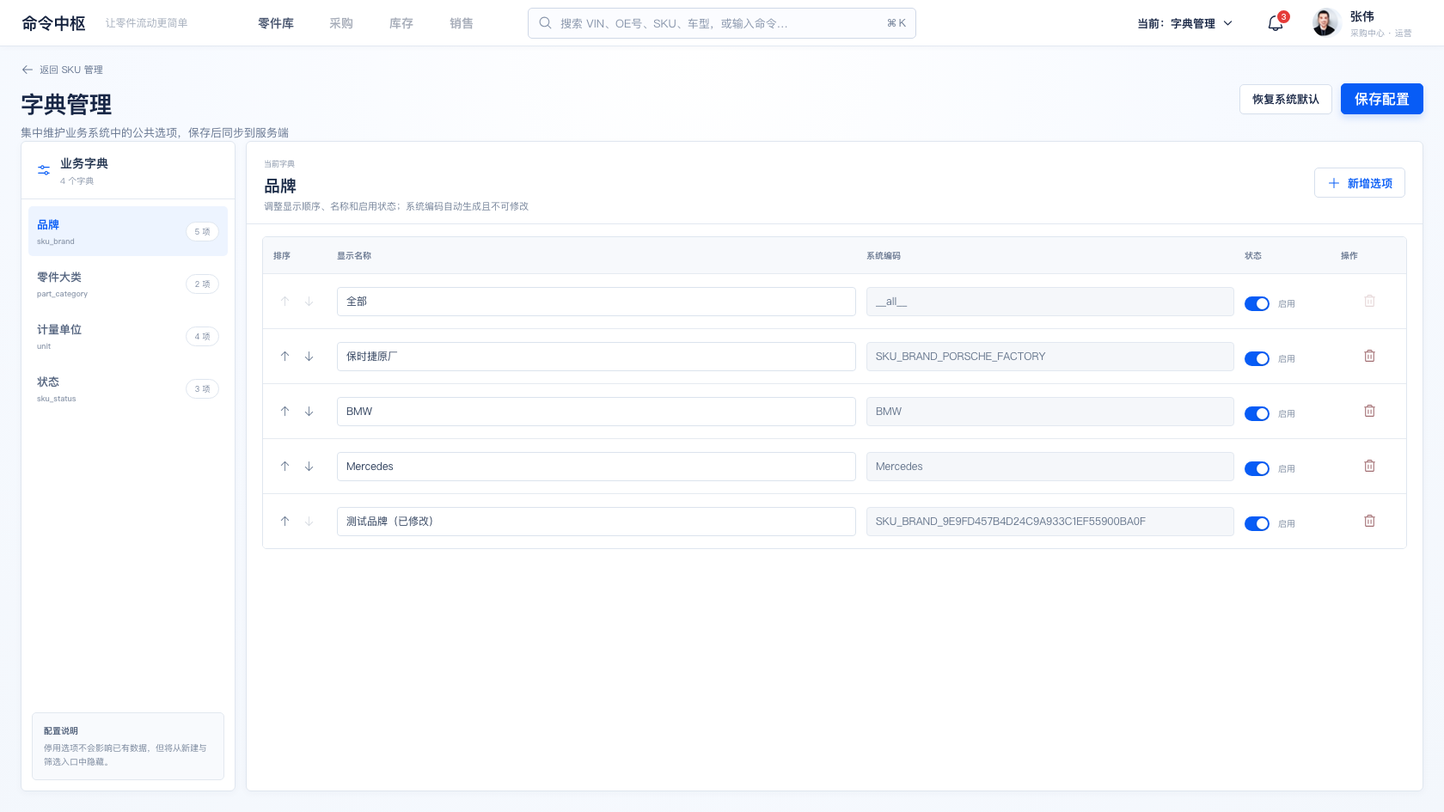
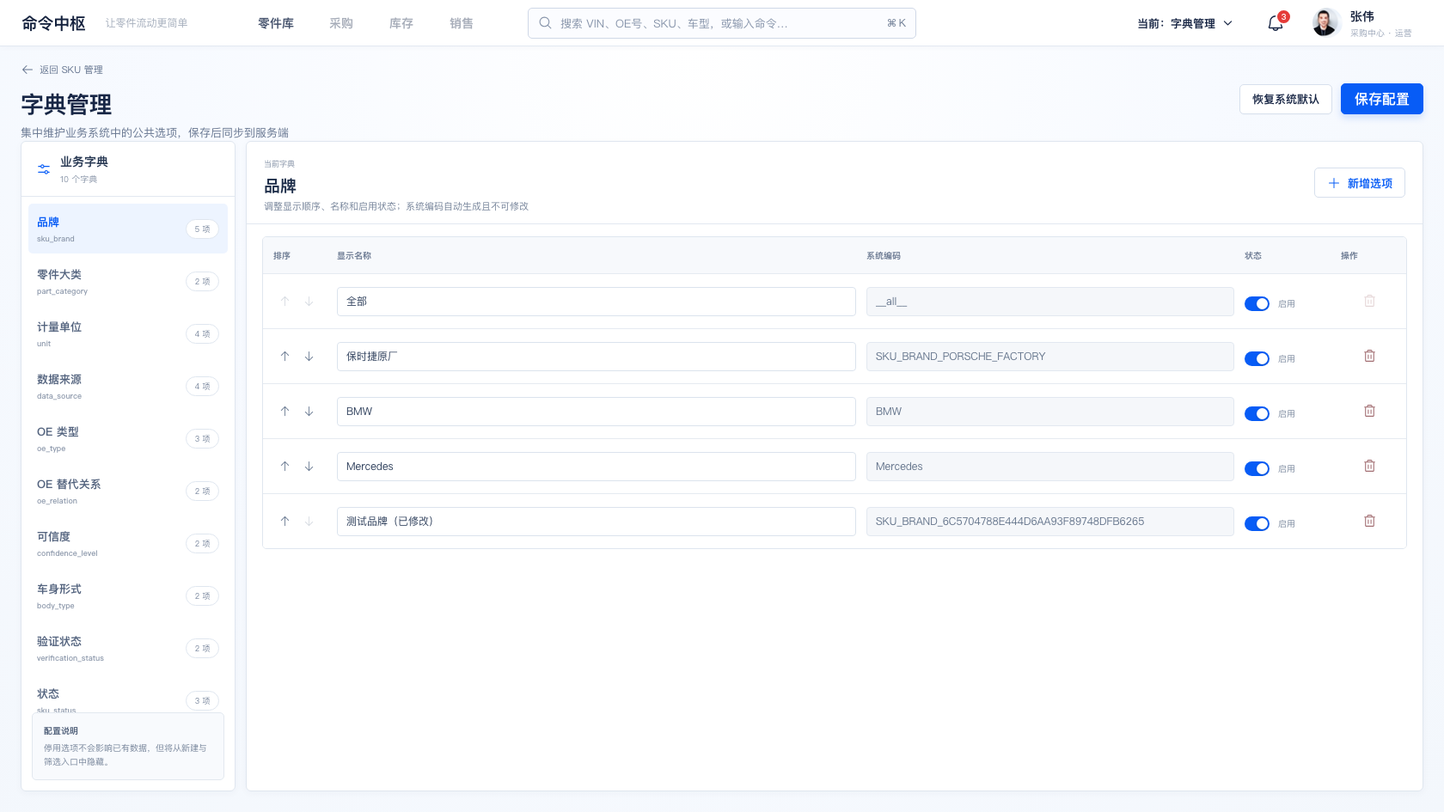
feat: use dictionaries for SKU relations and fitment

diff --git a/apps/web/src/components/SkuEditor.jsx b/apps/web/src/components/SkuEditor.jsx
@@ -37,10 +37,6 @@ function TextField({ label, value, onChange, required, readOnly = false, valid =
   return <EditorField label={label} required={required}><div className={className}><input aria-invalid={Boolean(error)} aria-describedby={error ? `${label}-input-error` : undefined} autoCapitalize={codeInput ? 'off' : undefined} lang={codeInput ? 'en' : undefined} spellCheck={codeInput ? false : undefined} value={value} onBlur={onBlur} onChange={(event) => onChange?.(event.target.value)} readOnly={readOnly} />{valid ? <CheckCircle size={16} weight="fill" /> : null}</div>{error ? <small className="editor-field-error" id={`${label}-input-error`} role="alert">{error}</small> : null}</EditorField>
 }
 
-function SelectField({ label, value, onChange, options, required, status = false }) {
-  return <EditorField label={label} required={required}><div className={status ? 'editor-native-select has-status' : 'editor-native-select'}>{status ? <i /> : null}<select value={value} onChange={(event) => onChange(event.target.value)}>{required ? <option disabled value="">请选择{label}</option> : null}{options.map((option) => <option key={option} value={option}>{option}</option>)}</select></div></EditorField>
-}
-
 function SectionHeading({ title, description, action }) {
   return <header className="editor-section-heading"><div><h2>{title}</h2>{description ? <p>{description}</p> : null}</div>{action}</header>
 }
@@ -49,21 +45,41 @@ function EditableCell({ value, onChange, label }) {
   return <input aria-label={label} className="table-cell-input" value={value} onChange={(event) => onChange(event.target.value)} />
 }
 
-function OeRelations({ rows, setRows }) {
+function DictionaryCell({ dictionaryCode, dictionaries, value, onChange, label, disabled = false }) {
+  const items = dictionaries[dictionaryCode]?.items?.filter((item) => item.enabled !== false && item.value !== '__all__') ?? []
+  const hasCurrentValue = !value || items.some((item) => item.value === value)
+  return <select aria-label={label} className="table-cell-select" disabled={disabled} value={value} onChange={(event) => onChange(event.target.value)}>
+    <option value="">请选择</option>
+    {!hasCurrentValue ? <option value={value}>{value}</option> : null}
+    {items.map((item) => <option key={item.value} value={item.value}>{item.label}</option>)}
+  </select>
+}
+
+function OeRelations({ rows, setRows, dictionaries, dictionariesLoading, primaryOe, skuBrand, dataSource }) {
   const update = (index, key, value) => setRows((current) => current.map((row, rowIndex) => rowIndex === index ? { ...row, [key]: value } : row))
-  const addOe = () => setRows((current) => [...current, { type: current.length ? '替代号' : '主 OE', oeNumber: '', brand: '', relation: '', source: '人工录入', confidence: '待核验' }])
+  const updateType = (index, value) => setRows((current) => current.map((row, rowIndex) => rowIndex === index ? { ...row, type: value, relation: value === '主 OE' ? '' : row.relation } : row))
+  const hasIncompleteRow = rows.some((row) => !row.oeNumber?.trim())
+  const addOe = () => setRows((current) => [...current, {
+    type: current.length ? '替代号' : '主 OE',
+    oeNumber: current.length ? '' : primaryOe,
+    brand: skuBrand,
+    relation: '',
+    source: dataSource,
+    confidence: '待核验',
+  }])
   return <section className="editor-section" id="oe-relations">
-    <SectionHeading title="OE 与替代关系" description="维护该零件的 OE 号及替代关系，保存后同步写入数据库" action={<div className="section-actions"><button onClick={addOe} type="button"><Plus size={16} />添加 OE 号</button></div>} />
-    {rows.length ? <div className="editor-table-wrap"><table className="editor-table oe-editor-table"><thead><tr><th>类型</th><th>OE / 替代号</th><th>品牌</th><th>关系</th><th>来源</th><th>可信度</th><th>操作</th></tr></thead><tbody>{rows.map((row, index) => <tr key={`${row.id || 'new-oe'}-${index}`}><td><EditableCell label={`OE 类型 ${index + 1}`} value={row.type} onChange={(value) => update(index, 'type', value)} /></td><td><EditableCell label={`OE 编号 ${index + 1}`} value={row.oeNumber} onChange={(value) => update(index, 'oeNumber', value)} /></td><td><EditableCell label={`OE 品牌 ${index + 1}`} value={row.brand} onChange={(value) => update(index, 'brand', value)} /></td><td><EditableCell label={`OE 关系 ${index + 1}`} value={row.relation} onChange={(value) => update(index, 'relation', value)} /></td><td><EditableCell label={`OE 来源 ${index + 1}`} value={row.source} onChange={(value) => update(index, 'source', value)} /></td><td><EditableCell label={`OE 可信度 ${index + 1}`} value={row.confidence} onChange={(value) => update(index, 'confidence', value)} /></td><td><button className="remove-row-button" onClick={() => setRows((current) => current.filter((_, rowIndex) => rowIndex !== index))} type="button">删除</button></td></tr>)}</tbody></table></div> : <div className="editor-inline-empty">尚未添加 OE 或替代关系</div>}
+    <SectionHeading title="OE 与替代关系" description="维护该零件的 OE 号及替代关系，保存后同步写入数据库" action={<div className="section-actions"><button disabled={hasIncompleteRow} onClick={addOe} title={hasIncompleteRow ? '请先填写当前空白行的 OE 编号' : undefined} type="button"><Plus size={16} />添加 OE 号</button></div>} />
+    {rows.length ? <div className="editor-table-wrap"><table className="editor-table oe-editor-table"><thead><tr><th>类型</th><th>OE / 替代号</th><th>品牌</th><th>关系</th><th>来源</th><th>可信度</th><th>操作</th></tr></thead><tbody>{rows.map((row, index) => <tr key={`${row.id || 'new-oe'}-${index}`}><td><DictionaryCell dictionaryCode="oe_type" dictionaries={dictionaries} disabled={dictionariesLoading} label={`OE 类型 ${index + 1}`} value={row.type} onChange={(value) => updateType(index, value)} /></td><td><EditableCell label={`OE 编号 ${index + 1}`} value={row.oeNumber} onChange={(value) => update(index, 'oeNumber', value)} /></td><td><DictionaryCell dictionaryCode="sku_brand" dictionaries={dictionaries} disabled={dictionariesLoading} label={`OE 品牌 ${index + 1}`} value={row.brand} onChange={(value) => update(index, 'brand', value)} /></td><td><DictionaryCell dictionaryCode="oe_relation" dictionaries={dictionaries} disabled={dictionariesLoading || row.type === '主 OE'} label={`OE 关系 ${index + 1}`} value={row.relation} onChange={(value) => update(index, 'relation', value)} /></td><td><DictionaryCell dictionaryCode="data_source" dictionaries={dictionaries} disabled={dictionariesLoading} label={`OE 来源 ${index + 1}`} value={row.source} onChange={(value) => update(index, 'source', value)} /></td><td><DictionaryCell dictionaryCode="confidence_level" dictionaries={dictionaries} disabled={dictionariesLoading} label={`OE 可信度 ${index + 1}`} value={row.confidence} onChange={(value) => update(index, 'confidence', value)} /></td><td><button aria-label={`删除第 ${index + 1} 条 OE 记录`} className="remove-row-button" onClick={() => setRows((current) => current.filter((_, rowIndex) => rowIndex !== index))} type="button">删除</button></td></tr>)}</tbody></table></div> : <div className="editor-inline-empty">尚未添加 OE 或替代关系</div>}
   </section>
 }
 
-function FitmentTable({ rows, setRows }) {
+function FitmentTable({ rows, setRows, dictionaries, dictionariesLoading, dataSource }) {
   const update = (index, key, value) => setRows((current) => current.map((row, rowIndex) => rowIndex === index ? { ...row, [key]: value } : row))
-  const addFitment = () => setRows((current) => [...current, { vehicle: '', years: '', engine: '', body: '', condition: '', source: '人工录入', verificationStatus: '待验证' }])
+  const hasIncompleteRow = rows.some((row) => !row.vehicle?.trim())
+  const addFitment = () => setRows((current) => [...current, { vehicle: '', years: '', engine: '', body: '', condition: '', source: dataSource, verificationStatus: '待验证' }])
   return <section className="editor-section" id="fitments">
-    <SectionHeading title="适配车型" description="指定适用的车型、年款、发动机和限制条件" action={<div className="section-actions"><button onClick={addFitment} type="button"><Plus size={16} />添加适配车型</button></div>} />
-    {rows.length ? <div className="editor-table-wrap"><table className="editor-table fitment-editor-table"><thead><tr><th>#</th><th>品牌 / 车型</th><th>年份</th><th>发动机</th><th>车身形式</th><th>适配条件</th><th>来源</th><th>验证状态</th><th>操作</th></tr></thead><tbody>{rows.map((row, index) => <tr key={`${row.id || 'new-fitment'}-${index}`}><td>{index + 1}</td><td><EditableCell label={`适配车型 ${index + 1}`} value={row.vehicle} onChange={(value) => update(index, 'vehicle', value)} /></td><td><EditableCell label={`适配年份 ${index + 1}`} value={row.years} onChange={(value) => update(index, 'years', value)} /></td><td><EditableCell label={`适配发动机 ${index + 1}`} value={row.engine} onChange={(value) => update(index, 'engine', value)} /></td><td><EditableCell label={`车身形式 ${index + 1}`} value={row.body} onChange={(value) => update(index, 'body', value)} /></td><td><EditableCell label={`适配条件 ${index + 1}`} value={row.condition} onChange={(value) => update(index, 'condition', value)} /></td><td><EditableCell label={`适配来源 ${index + 1}`} value={row.source} onChange={(value) => update(index, 'source', value)} /></td><td><EditableCell label={`验证状态 ${index + 1}`} value={row.verificationStatus} onChange={(value) => update(index, 'verificationStatus', value)} /></td><td><button className="remove-row-button" onClick={() => setRows((current) => current.filter((_, rowIndex) => rowIndex !== index))} type="button">删除</button></td></tr>)}</tbody></table></div> : <div className="editor-inline-empty">尚未添加适配车型</div>}
+    <SectionHeading title="适配车型" description="指定适用的车型、年款、发动机和限制条件" action={<div className="section-actions"><button disabled={hasIncompleteRow} onClick={addFitment} title={hasIncompleteRow ? '请先填写当前空白行的品牌 / 车型' : undefined} type="button"><Plus size={16} />添加适配车型</button></div>} />
+    {rows.length ? <div className="editor-table-wrap"><table className="editor-table fitment-editor-table"><thead><tr><th>#</th><th>品牌 / 车型</th><th>年份</th><th>发动机</th><th>车身形式</th><th>适配条件</th><th>来源</th><th>验证状态</th><th>操作</th></tr></thead><tbody>{rows.map((row, index) => <tr key={`${row.id || 'new-fitment'}-${index}`}><td>{index + 1}</td><td><EditableCell label={`适配车型 ${index + 1}`} value={row.vehicle} onChange={(value) => update(index, 'vehicle', value)} /></td><td><EditableCell label={`适配年份 ${index + 1}`} value={row.years} onChange={(value) => update(index, 'years', value)} /></td><td><EditableCell label={`适配发动机 ${index + 1}`} value={row.engine} onChange={(value) => update(index, 'engine', value)} /></td><td><DictionaryCell dictionaryCode="body_type" dictionaries={dictionaries} disabled={dictionariesLoading} label={`车身形式 ${index + 1}`} value={row.body} onChange={(value) => update(index, 'body', value)} /></td><td><EditableCell label={`适配条件 ${index + 1}`} value={row.condition} onChange={(value) => update(index, 'condition', value)} /></td><td><DictionaryCell dictionaryCode="data_source" dictionaries={dictionaries} disabled={dictionariesLoading} label={`适配来源 ${index + 1}`} value={row.source} onChange={(value) => update(index, 'source', value)} /></td><td><DictionaryCell dictionaryCode="verification_status" dictionaries={dictionaries} disabled={dictionariesLoading} label={`验证状态 ${index + 1}`} value={row.verificationStatus} onChange={(value) => update(index, 'verificationStatus', value)} /></td><td><button aria-label={`删除第 ${index + 1} 条适配记录`} className="remove-row-button" onClick={() => setRows((current) => current.filter((_, rowIndex) => rowIndex !== index))} type="button">删除</button></td></tr>)}</tbody></table></div> : <div className="editor-inline-empty">尚未添加适配车型</div>}
   </section>
 }
 
@@ -186,10 +202,10 @@ export function SkuEditor({ dictionaries, dictionariesLoading, mode = 'edit', sk
       <EditorField label="计量单位" required><DictionarySelect allowAll={false} showLabel={false} className="form-dictionary" dictionaryCode="unit" dictionaries={dictionaries} fallbackLabel="计量单位" value={form.unit} onChange={(value) => setValue('unit', value)} disabled={dictionariesLoading} /></EditorField>
       <TextField label="生命周期状态" value={form.lifecycleStatus} readOnly required />
       <TextField label="条形码 / GTIN" value={form.barcode} onChange={(value) => setValue('barcode', value)} />
-      <SelectField label="数据来源" value={form.dataSource} onChange={(value) => setValue('dataSource', value)} options={['人工录入', 'EPC 导入', '供应商资料', '历史系统']} required />
+      <EditorField label="数据来源" required><DictionarySelect allowAll={false} showLabel={false} className="form-dictionary" dictionaryCode="data_source" dictionaries={dictionaries} fallbackLabel="数据来源" value={form.dataSource} onChange={(value) => setValue('dataSource', value)} disabled={dictionariesLoading} /></EditorField>
       <TextField label="最后更新" value={formatDate(form.updatedAt)} readOnly />
       <TextField label="更新者" value={form.updatedBy || '张伟'} readOnly />
-    </div></div></section><OeRelations rows={oeRows} setRows={setOeRows} /><FitmentTable rows={fitmentRows} setRows={setFitmentRows} /></div><EvidencePanel form={form} oeRows={oeRows} fitmentRows={fitmentRows} onZoom={() => setZoomOpen(true)} /></div>
+    </div></div></section><OeRelations rows={oeRows} setRows={setOeRows} dictionaries={dictionaries} dictionariesLoading={dictionariesLoading} primaryOe={form.primaryOe} skuBrand={form.brand} dataSource={form.dataSource} /><FitmentTable rows={fitmentRows} setRows={setFitmentRows} dictionaries={dictionaries} dictionariesLoading={dictionariesLoading} dataSource={form.dataSource} /></div><EvidencePanel form={form} oeRows={oeRows} fitmentRows={fitmentRows} onZoom={() => setZoomOpen(true)} /></div>
     {zoomOpen && form.sourceEvidence ? <div className="epc-zoom-backdrop" onMouseDown={() => setZoomOpen(false)}><section onMouseDown={(event) => event.stopPropagation()}><header><div><ImageSquare size={19} /><b>{form.sourceEvidence.title || 'EPC 来源图'}</b></div><button aria-label="关闭 EPC 大图" onClick={() => setZoomOpen(false)} type="button"><X size={19} /></button></header><img src={form.sourceEvidence.diagramUrl || assetPath('assets/parts/epc-diagram.png')} alt="EPC 大图" /></section></div> : null}
   </main>
 }

diff --git a/apps/web/tests/dashboard.spec.js b/apps/web/tests/dashboard.spec.js
@@ -65,6 +65,12 @@ async function installMockDictionaryApi(page) {
       sku_brand: { label: '品牌', items: [{ value: '__all__', label: '全部', sort: 0, enabled: true }, { value: 'SKU_BRAND_PORSCHE_FACTORY', label: '保时捷原厂', sort: 10, enabled: true }, { value: 'BMW', label: 'BMW', sort: 20, enabled: true }, { value: 'Mercedes', label: 'Mercedes', sort: 30, enabled: true }] },
       part_category: { label: '零件大类', items: [{ value: '__all__', label: '全部', sort: 0, enabled: true }, { value: '车身及内饰', label: '车身及内饰', sort: 10, enabled: true }] },
       unit: { label: '计量单位', items: [{ value: '件', label: '件', sort: 0, enabled: true }, { value: '套', label: '套', sort: 10, enabled: true }, { value: '盒', label: '盒', sort: 20, enabled: true }, { value: '支', label: '支', sort: 30, enabled: true }] },
+      data_source: { label: '数据来源', items: [{ value: '人工录入', label: '人工录入', sort: 0, enabled: true }, { value: 'EPC 导入', label: 'EPC 导入', sort: 10, enabled: true }, { value: '供应商资料', label: '供应商资料', sort: 20, enabled: true }, { value: '历史系统', label: '历史系统', sort: 30, enabled: true }] },
+      oe_type: { label: 'OE 类型', items: [{ value: '主 OE', label: '主 OE', sort: 0, enabled: true }, { value: '替代号', label: '替代号', sort: 10, enabled: true }, { value: '历史号', label: '历史号', sort: 20, enabled: true }] },
+      oe_relation: { label: 'OE 替代关系', items: [{ value: '直接替代', label: '直接替代', sort: 0, enabled: true }, { value: '可互换', label: '可互换', sort: 10, enabled: true }] },
+      confidence_level: { label: '可信度', items: [{ value: '待核验', label: '待核验', sort: 0, enabled: true }, { value: '高', label: '高', sort: 10, enabled: true }] },
+      body_type: { label: '车身形式', items: [{ value: 'SUV', label: 'SUV', sort: 0, enabled: true }, { value: 'Coupe', label: '轿跑 / Coupe', sort: 10, enabled: true }] },
+      verification_status: { label: '验证状态', items: [{ value: '待验证', label: '待验证', sort: 0, enabled: true }, { value: '已验证', label: '已验证', sort: 10, enabled: true }] },
       sku_status: { label: '状态', items: [{ value: '__all__', label: '全部', sort: 0, enabled: true }, { value: '草稿', label: '草稿', sort: 10, enabled: true }, { value: '在售', label: '在售', sort: 20, enabled: true }] },
     },
   }
@@ -120,7 +126,7 @@ test('creates a SKU through the persisted form flow', async ({ page }) => {
   await expect(page.getByRole('combobox', { name: '品牌：请选择品牌' })).toBeVisible()
   await expect(page.getByRole('combobox', { name: '零件大类：请选择零件大类' })).toBeVisible()
   await expect(page.getByRole('combobox', { name: '计量单位：请选择计量单位' })).toBeVisible()
-  await expect(page.getByLabel('数据来源 *')).toHaveValue('')
+  await expect(page.getByRole('combobox', { name: '数据来源：请选择数据来源' })).toBeVisible()
   await page.getByLabel('SKU 编码 *').fill('REAL-TEST-001')
   await page.getByLabel('中文名称 *').fill('流程测试零件')
   await page.getByRole('combobox', { name: '品牌：请选择品牌' }).click()
@@ -134,11 +140,21 @@ test('creates a SKU through the persisted form flow', async ({ page }) => {
   await page.getByLabel('主 OE 号 *').fill('REAL TEST 001')
   await page.getByRole('combobox', { name: '计量单位：请选择计量单位' }).click()
   await page.getByRole('option', { name: '件', exact: true }).click()
-  await page.getByLabel('数据来源 *').selectOption('人工录入')
+  await page.getByRole('combobox', { name: '数据来源：请选择数据来源' }).click()
+  await page.getByRole('option', { name: '人工录入', exact: true }).click()
   await page.getByRole('button', { name: '添加 OE 号' }).click()
-  await page.getByLabel('OE 编号 1').fill('REAL TEST 001')
+  await expect(page.getByLabel('OE 编号 1')).toHaveValue('REAL TEST 001')
+  await expect(page.getByLabel('OE 类型 1')).toHaveValue('主 OE')
+  await expect(page.getByLabel('OE 品牌 1')).toHaveValue('SKU_BRAND_PORSCHE_FACTORY')
+  await expect(page.getByLabel('OE 来源 1')).toHaveValue('人工录入')
+  await expect(page.getByLabel('OE 可信度 1')).toHaveValue('待核验')
+  await expect(page.getByLabel('OE 关系 1', { exact: true })).toBeDisabled()
   await page.getByRole('button', { name: '添加适配车型' }).click()
+  await expect(page.getByRole('button', { name: '添加适配车型' })).toBeDisabled()
+  await expect(page.getByLabel('适配来源 1')).toHaveValue('人工录入')
+  await expect(page.getByLabel('验证状态 1')).toHaveValue('待验证')
   await page.getByLabel('适配车型 1').fill('测试车型')
+  await expect(page.getByRole('button', { name: '添加适配车型' })).toBeEnabled()
   await page.getByRole('button', { name: '创建草稿' }).click()
   await expect(page).toHaveURL(/\/skus\/created-sku-1\/edit$/)
   await expect(page.getByRole('heading', { name: '编辑 SKU' })).toBeVisible()
@@ -164,9 +180,18 @@ test('edits relations, fitment, dictionaries and saves to the API', async ({ pag
   await expect(brandDictionary.getByRole('option', { name: '全部' })).toHaveCount(0)
   await brandDictionary.getByRole('option', { name: 'BMW' }).click()
   await page.getByRole('button', { name: '添加 OE 号' }).click()
+  await expect(page.getByRole('button', { name: '添加 OE 号' })).toBeDisabled()
   await page.getByLabel('OE 编号 2').fill('BMW TEST 002')
+  await page.getByLabel('OE 关系 2', { exact: true }).selectOption('直接替代')
+  await page.getByLabel('OE 类型 2').selectOption('主 OE')
+  await expect(page.getByLabel('OE 关系 2', { exact: true })).toHaveValue('')
+  await expect(page.getByLabel('OE 关系 2', { exact: true })).toBeDisabled()
+  await page.getByLabel('OE 类型 2').selectOption('替代号')
+  await page.getByLabel('OE 关系 2', { exact: true }).selectOption('直接替代')
   await page.getByRole('button', { name: '添加适配车型' }).click()
   await page.getByLabel('适配车型 2').fill('BMW X5 (G05)')
+  await page.getByLabel('车身形式 2').selectOption('Coupe')
+  await page.getByLabel('验证状态 2').selectOption('已验证')
   await page.getByRole('button', { name: '发布 SKU' }).click()
   await expect(page.getByText('SKU 已保存并发布')).toBeVisible()
   await expect(page.getByRole('button', { name: '停产 SKU' })).toBeVisible()
@@ -224,7 +249,8 @@ test('publish stays disabled until required relationships are complete', async (
   await page.getByLabel('主 OE 号 *').fill('PUBLISH OE 001')
   await page.getByRole('combobox', { name: '计量单位：请选择计量单位' }).click()
   await page.getByRole('option', { name: '件', exact: true }).click()
-  await page.getByLabel('数据来源 *').selectOption('人工录入')
+  await page.getByRole('combobox', { name: '数据来源：请选择数据来源' }).click()
+  await page.getByRole('option', { name: '人工录入', exact: true }).click()
   await page.getByRole('button', { name: '创建草稿' }).click()
   await page.getByRole('heading', { name: '编辑 SKU' }).waitFor()
   await expect(page.getByRole('button', { name: '发布 SKU' })).toBeDisabled()

diff --git a/apps/web/src/styles.css b/apps/web/src/styles.css
@@ -293,7 +293,7 @@ button { color: inherit; }
 .catalog-title > span { display: grid; gap: 3px; }
 .catalog-title b { color: #243550; font-size: 14px; }
 .catalog-title small { color: #8a96a9; font-size: 10px; }
-.dictionary-catalog nav { padding: 8px; display: grid; gap: 3px; }
+.dictionary-catalog nav { min-height: 0; padding: 8px; overflow-y: auto; display: grid; gap: 3px; }
 .dictionary-catalog nav button { width: 100%; min-height: 58px; padding: 8px 10px; display: flex; align-items: center; justify-content: space-between; border: 0; border-radius: 5px; color: #53637e; background: transparent; text-align: left; cursor: pointer; }
 .dictionary-catalog nav button:hover { background: #f4f7fc; }
 .dictionary-catalog nav button.active { color: var(--blue); background: #edf4ff; }
@@ -563,6 +563,7 @@ button { color: inherit; }
 .section-actions { display: flex; gap: 8px; }
 .section-actions button { height: 31px; padding: 0 11px; display: inline-flex; align-items: center; gap: 6px; color: var(--blue); border: 1px solid #d4dfed; border-radius: 4px; background: white; font-size: 10.5px; font-weight: 600; cursor: pointer; }
 .section-actions button:hover { border-color: #a9c5f7; background: #f6f9ff; }
+.section-actions button:disabled { color: #9aa7b9; border-color: #e0e6ee; background: #f7f9fb; cursor: not-allowed; }
 .editor-table-wrap { overflow: hidden; border: 1px solid #dfe6ef; border-radius: 3px; }
 .editor-table { width: 100%; table-layout: fixed; border-collapse: collapse; color: #4f617e; font-size: 9.7px; }
 .editor-table th, .editor-table td { height: 35px; padding: 0 8px; overflow: hidden; border-right: 1px solid #e3e9f1; border-bottom: 1px solid #e3e9f1; text-align: left; text-overflow: ellipsis; white-space: nowrap; }
@@ -652,6 +653,10 @@ button { color: inherit; }
 .table-cell-input { width: 100%; height: 27px; padding: 0 5px; color: #40516d; border: 1px solid transparent; border-radius: 3px; background: transparent; font-size: 9.5px; outline: 0; }
 .table-cell-input:hover { border-color: #dce4ee; background: white; }
 .table-cell-input:focus { border-color: #8eb4f9; background: white; box-shadow: 0 0 0 2px rgba(7,92,246,.07); }
+.table-cell-select { width: 100%; height: 27px; padding: 0 20px 0 5px; color: #40516d; border: 1px solid transparent; border-radius: 3px; background: transparent; font-size: 9.5px; outline: 0; cursor: pointer; }
+.table-cell-select:hover { border-color: #dce4ee; background-color: white; }
+.table-cell-select:focus { border-color: #8eb4f9; background-color: white; box-shadow: 0 0 0 2px rgba(7,92,246,.07); }
+.table-cell-select:disabled { color: #8491a5; cursor: default; opacity: 1; }
 .remove-row-button { padding: 0; color: #ee4e51; border: 0; background: transparent; font-size: 9.5px; cursor: pointer; }
 .evidence-empty { min-height: 520px; display: flex; flex-direction: column; }
 .evidence-empty-state { min-height: 285px; padding: 42px 35px; display: flex; flex-direction: column; align-items: center; justify-content: center; color: #8a97aa; border: 1px dashed #dce4ee; border-radius: 4px; background: #fafbfd; text-align: center; }

diff --git a/apps/web/src/App.jsx b/apps/web/src/App.jsx
@@ -169,7 +169,7 @@ export function App() {
       <main className="workspace">
         <section className="workspace-heading">
           <div><h1>SKU 管理</h1><p>管理汽车零部件SKU，打通 OE、EPC 与库存销售数据</p></div>
-          <div className="page-actions"><button className="primary-button" onClick={() => window.location.assign(assetPath('skus/new'))} type="button"><Plus size={18} /> 新建 SKU</button><button className="more-button" aria-label="更多操作" aria-expanded={actionMenuOpen} onClick={() => setActionMenuOpen((current) => !current)} type="button"><DotsThree size={21} weight="bold" /></button>{actionMenuOpen ? <><button className="page-action-scrim" aria-label="关闭更多操作" onClick={() => setActionMenuOpen(false)} type="button" /><div className="page-action-menu" role="menu"><button disabled={dictionariesLoading} onClick={() => window.location.assign(assetPath('dictionaries'))} role="menuitem" type="button"><GearSix size={17} /><span><b>字典管理</b><small>独立维护品牌、分类、单位与状态</small></span></button></div></> : null}</div>
+          <div className="page-actions"><button className="primary-button" onClick={() => window.location.assign(assetPath('skus/new'))} type="button"><Plus size={18} /> 新建 SKU</button><button className="more-button" aria-label="更多操作" aria-expanded={actionMenuOpen} onClick={() => setActionMenuOpen((current) => !current)} type="button"><DotsThree size={21} weight="bold" /></button>{actionMenuOpen ? <><button className="page-action-scrim" aria-label="关闭更多操作" onClick={() => setActionMenuOpen(false)} type="button" /><div className="page-action-menu" role="menu"><button disabled={dictionariesLoading} onClick={() => window.location.assign(assetPath('dictionaries'))} role="menuitem" type="button"><GearSix size={17} /><span><b>字典管理</b><small>集中维护 SKU 与适配业务字典</small></span></button></div></> : null}</div>
         </section>
 
         <div className="summary-tabs" role="tablist">
